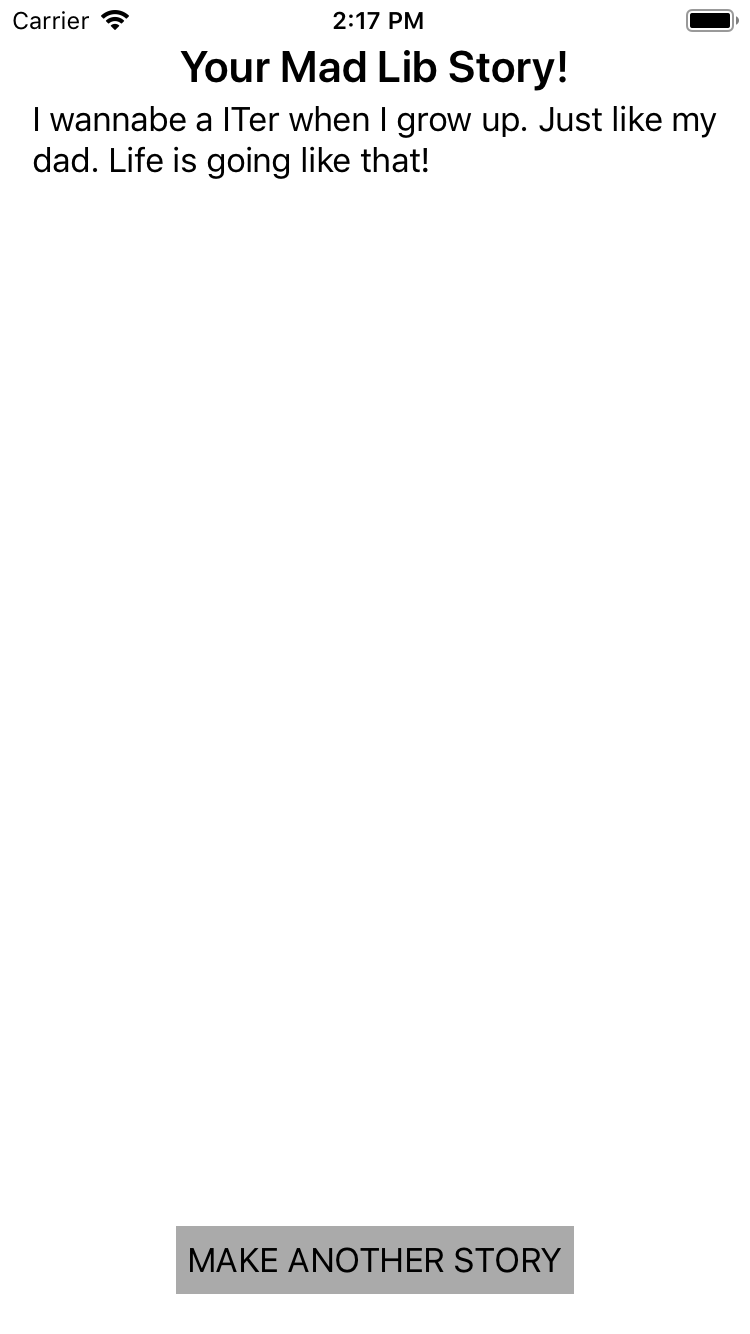
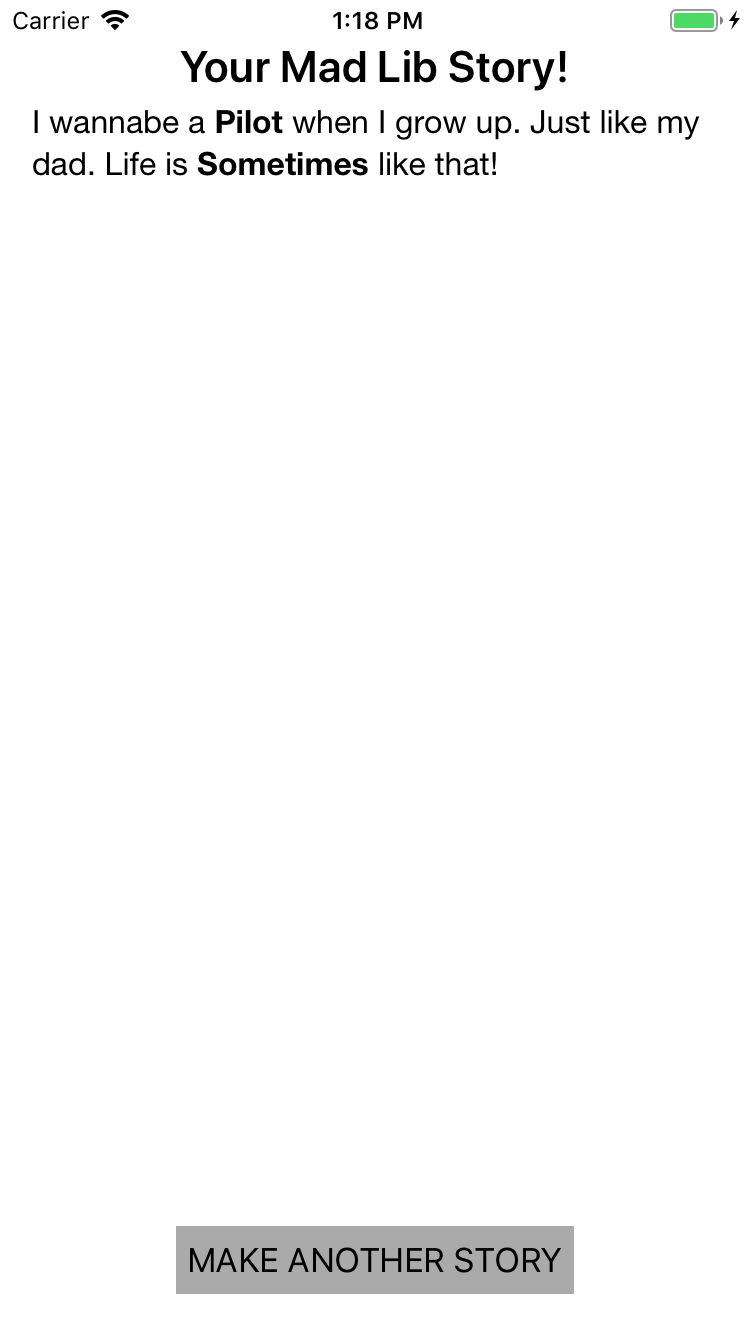
updated app, readme and docs

Changed region(s): [[0.0307, 0.0615, 0.9507, 0.1537], [0.4293, 0.0, 0.5827, 0.0307], [0.8893, 0.0, 0.9813, 0.0307]]

diff --git a/Wessel-pset2/WordTyper.swift b/Wessel-pset2/WordTyper.swift
@@ -17,7 +17,7 @@ class WordTyper: UIViewController {
     
     var text = String()
     lazy var tekst: Story! = Story(withText: "\(text)")
-    var stor = String()
+    var stor: NSAttributedString?
     
     
     
@@ -42,7 +42,7 @@ class WordTyper: UIViewController {
         } else {
             tekst.fillInPlaceholder(word: wordType.text!)
             if tekst.isFilledIn {
-                stor = tekst.normalText
+                stor = tekst.attributedText
                 performSegue(withIdentifier: "Story", sender: OkayButton)
             } else {
                 updateScreen()

diff --git a/Wessel-pset2/Storys.swift b/Wessel-pset2/Storys.swift
@@ -10,11 +10,11 @@ import UIKit
 class Storys: UIViewController {
     
     @IBOutlet weak var endStory: UILabel!
-    var iets = String()
+    var iets: NSAttributedString?
     
     override func viewDidLoad() {
         super.viewDidLoad()
-        endStory.text = iets
+        endStory.attributedText = iets
         endStory.sizeToFit()
         // Do any additional setup after loading the view, typically from a nib.
     }

diff --git a/README.md b/README.md
@@ -1,14 +1,17 @@
 # Mad Libs
-Mad Libs is a game where a user can make a story by entering words, before they know what the story will be. This way funny storys can be made.
+## Initial Features
+### -Added a home screen where the user can choose a story
+### -Added a screen where the user can fill in the words
+### -Added a screen to read your story
 
-![Introduction Page](docs/intro.png)
-This is the page where the game starts and where the user can choose a story.
+## Updated Features
+### -Added a function to make the filled in words bold
 
-![Fill in the a valid word](docs/fill_in.png)
-On this page, the user can input words. If they don't enter  a word and press OK, they get a message "Fill in a valid word!"
+### Home Screen
+<kbd><img src="docs/home.png" width="300"></kbd>
 
-![Entered correctly](docs/going.png)
-If they have entered a correct word, they get a message "Well done!"
+### Input Screen
+<kbd><img src="docs/inputscreen.png" width="300"></kbd>
 
-![The endstory](docs/story.png)
-The user can read their story and can go back to the main screen and start a new story.
+### Story Screen
+<kbd><img src="docs/story.png" width="300"></kbd>
